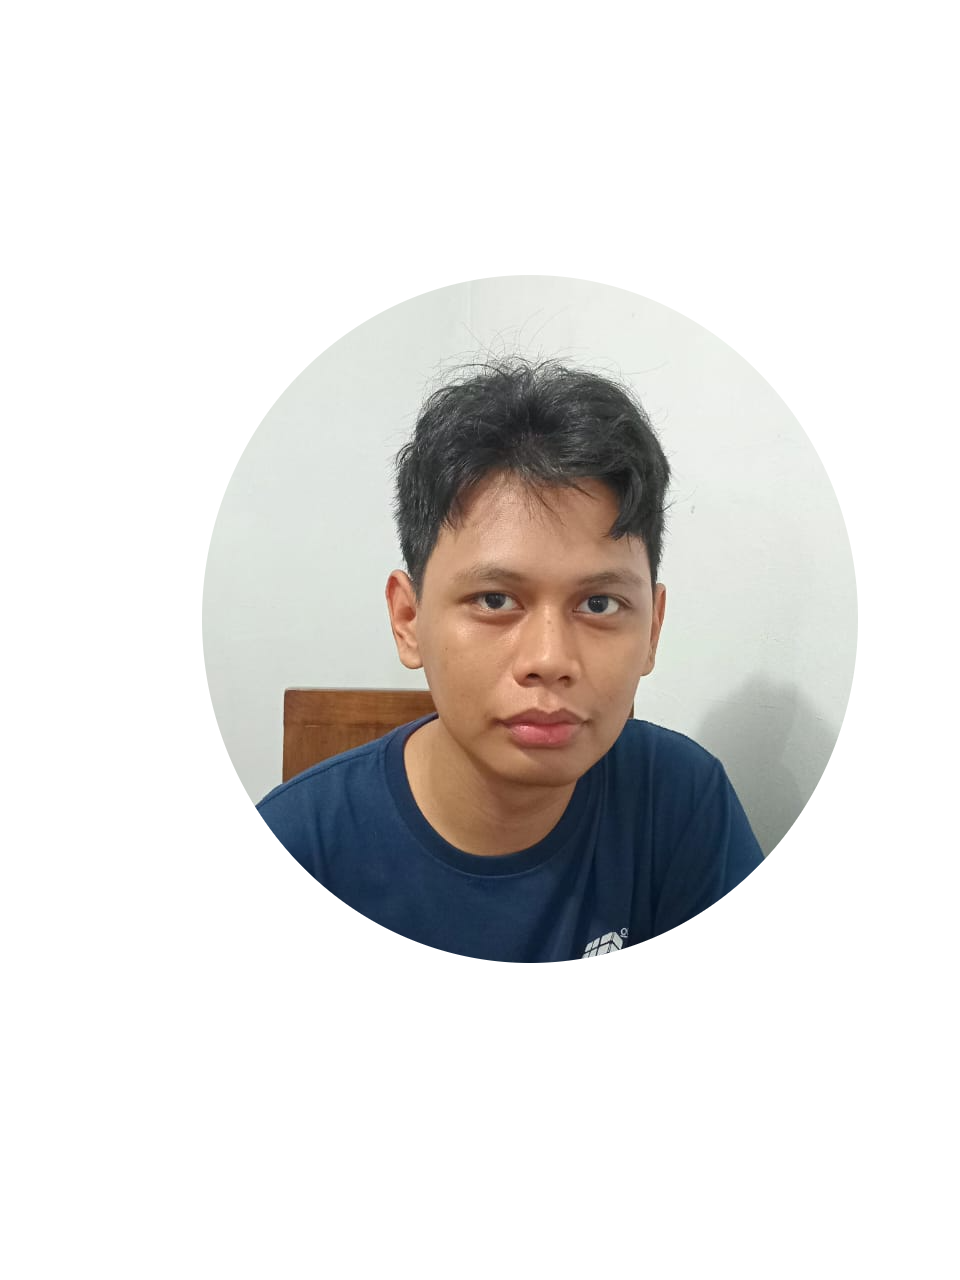
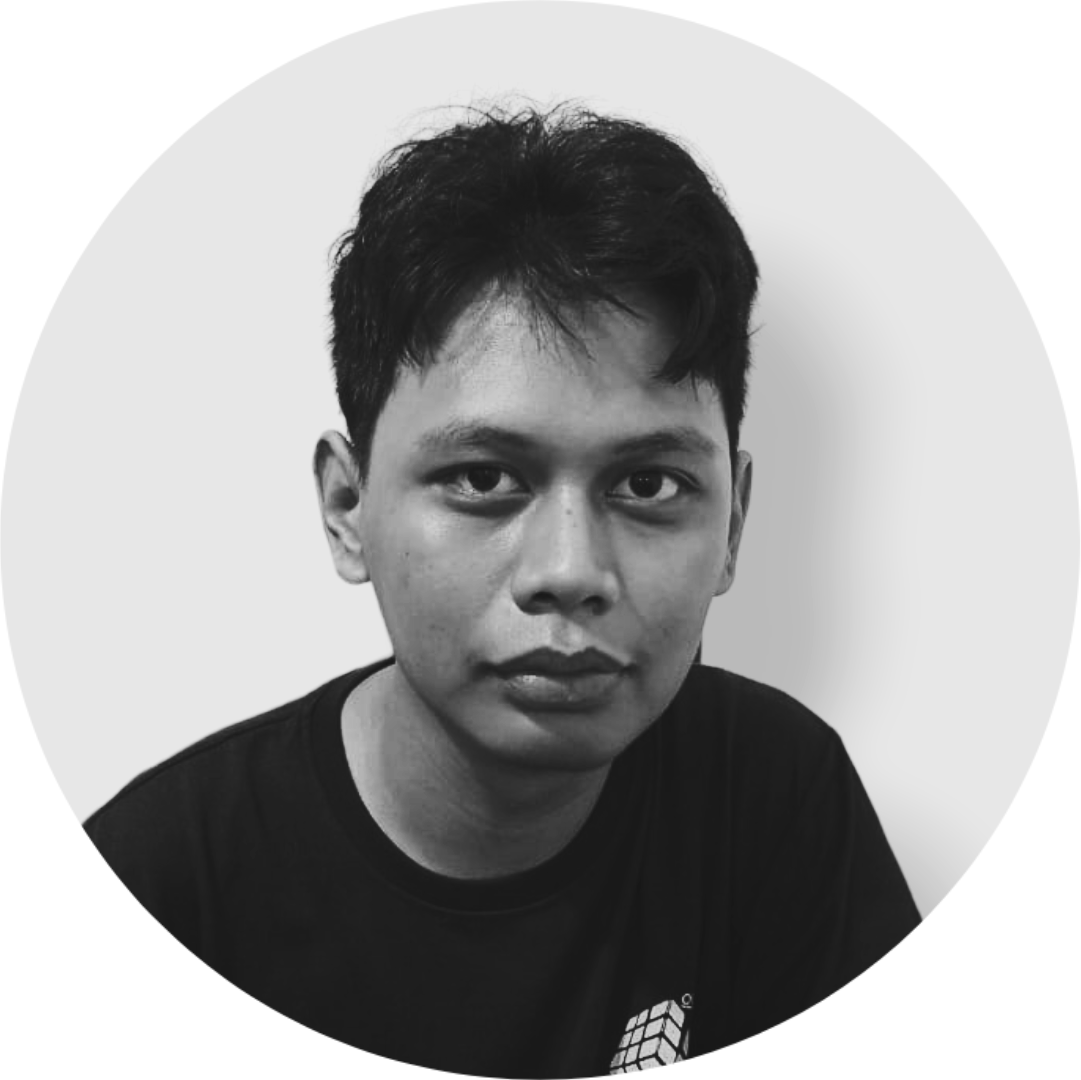
minor update

diff --git a/index.html b/index.html
@@ -40,7 +40,7 @@
   </nav>
   <section id="profile">
     <div class="section__pic-container">
-      <img src="./assets/img/profile-rd-wb.png" alt="John Doe profile picture" />
+      <img src="./assets/img/profile-rd.png" alt="John Doe profile picture" />
     </div>
     <div class="section__text">
       <p class="section__text__p1">Hello, I'm</p>
